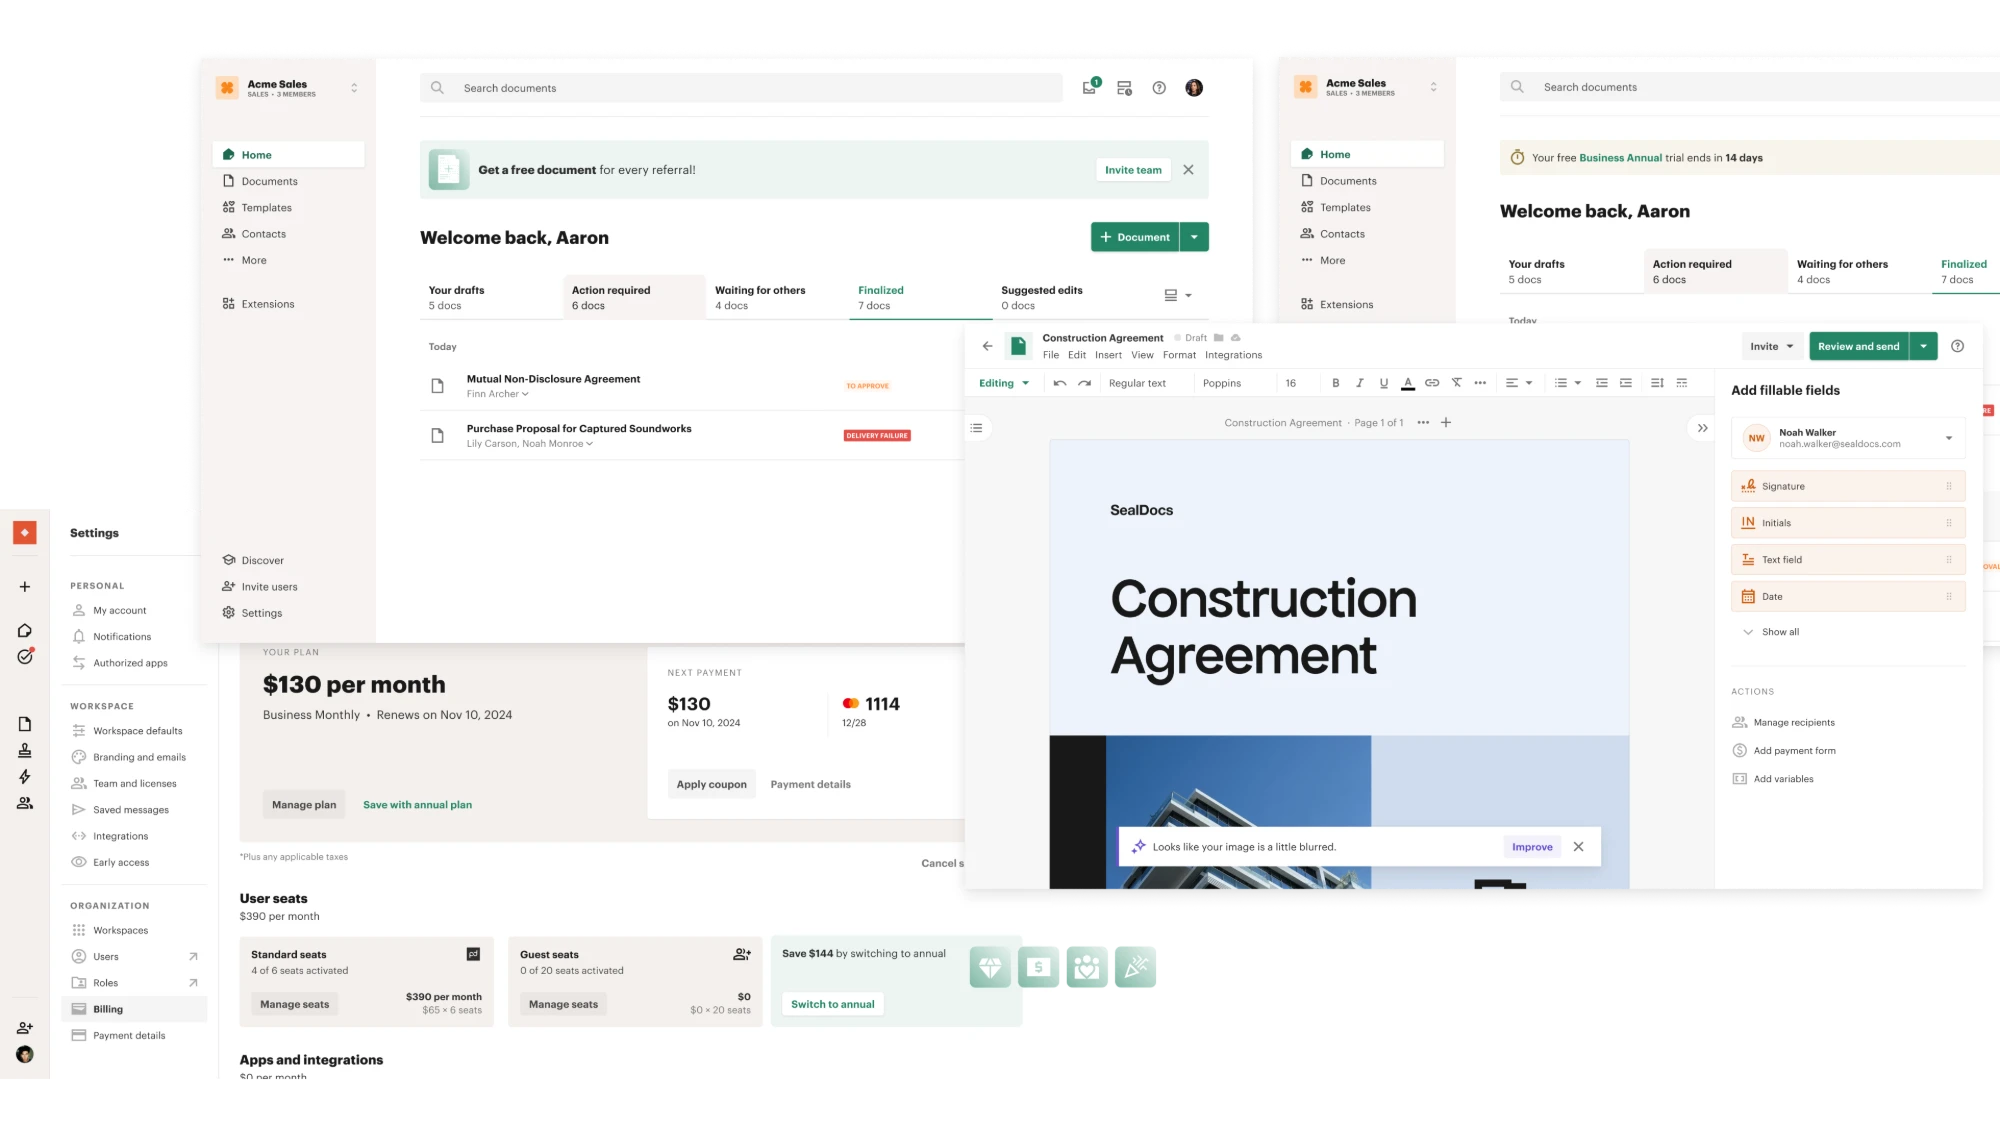
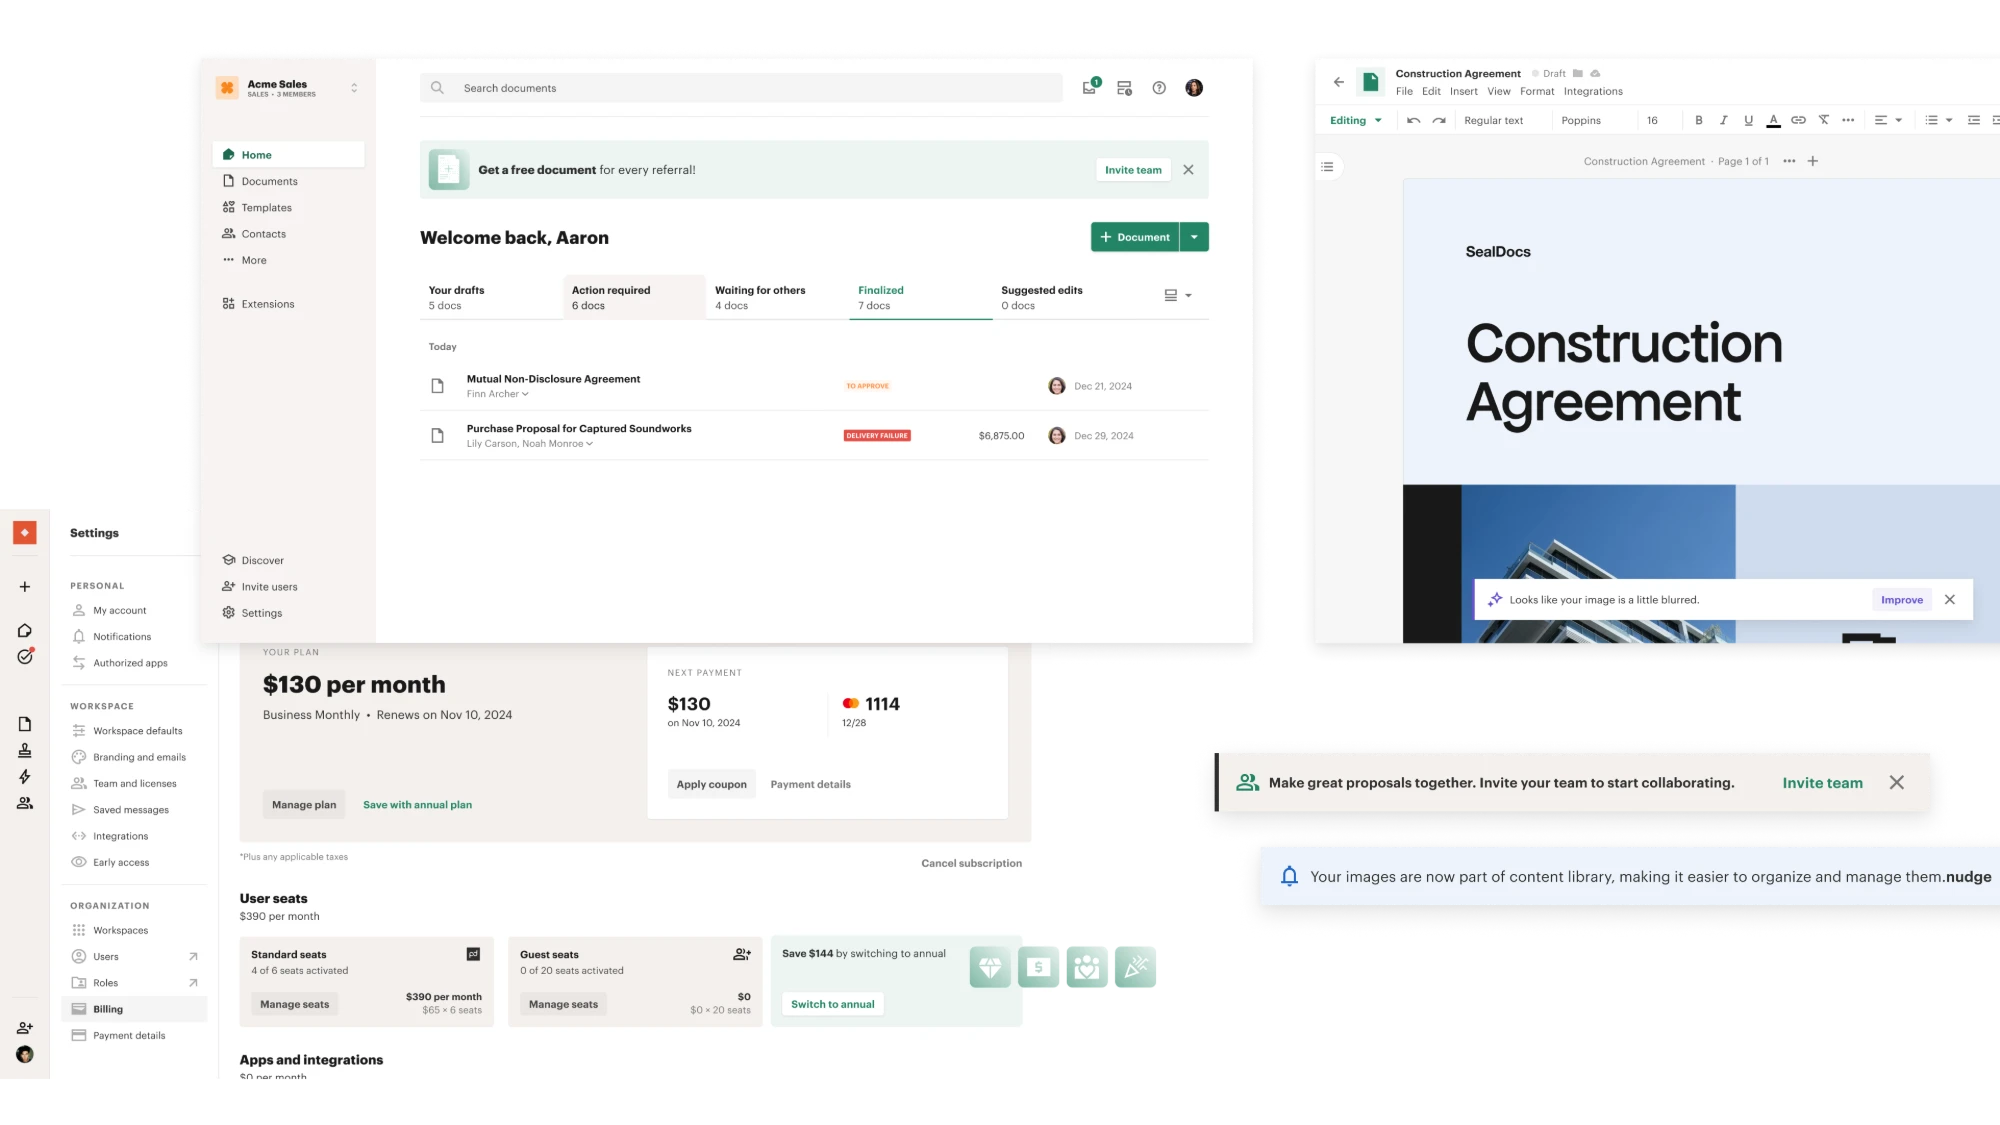
Draft: nudge composition with callout examples

diff --git a/case-studies/monthly-to-annual.html b/case-studies/monthly-to-annual.html
@@ -734,7 +734,7 @@
         </div>
 
         <figure class="media wide">
-          <img class="media__img" src="/case-studies/images/m2a/nudges-composition.webp" alt="Nudges in the product: a referral banner and a trial-ends banner on the home page, a save-with-annual link and a switch-to-annual card on the billing page, and an image-quality toast in the editor">
+          <img class="media__img" src="/case-studies/images/m2a/nudges-composition.webp" alt="Nudges in the product: a referral banner on the home page, a save-with-annual link and a switch-to-annual card on the billing page, an image-quality toast in the editor, an invite-your-team callout and a content library callout">
         </figure>
       </aside>
 
